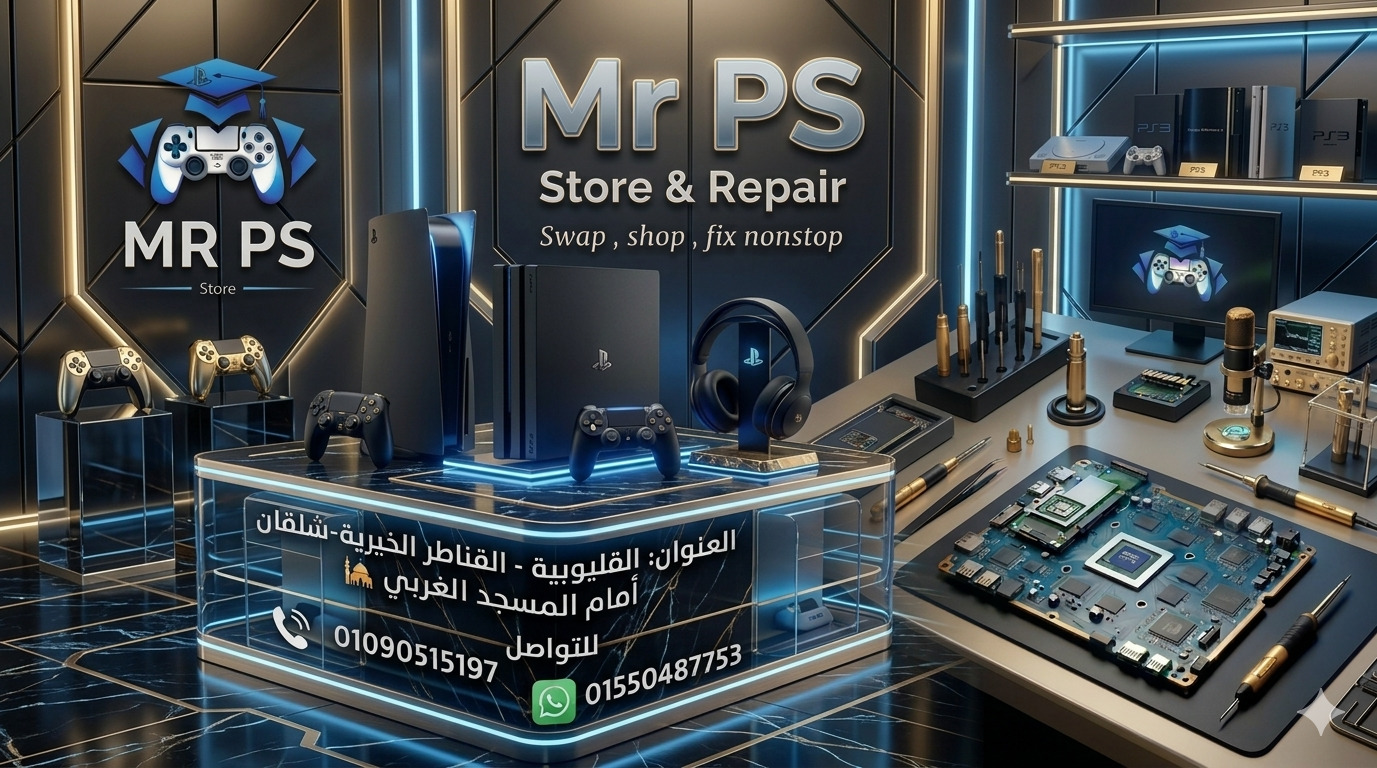
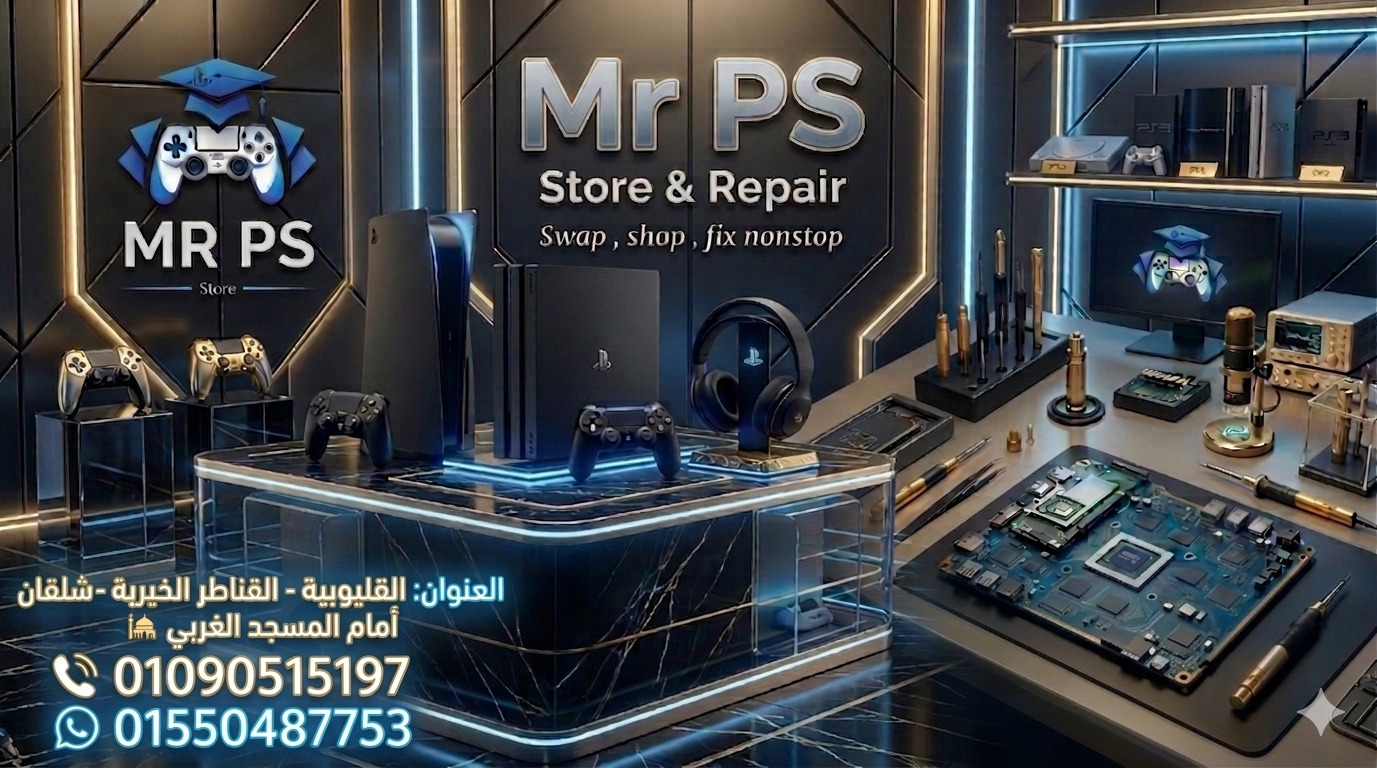
update img

diff --git a/672goldhen/index.html b/672goldhen/index.html
@@ -1,7 +1,6 @@
 <!DOCTYPE html>
 <html manifest="cache.manifest">
 <head>
-<title>PS4 6.72 FW GoldHEN Host by GamerHack</title>
 <link rel="stylesheet" href="../style.css">
 <script src="jb.js"></script>
 </head>
@@ -17,7 +16,8 @@ var leaker_obj={a:0};var leaker_arr=new Uint32Array(6);var oob_slave=new Uint8Ar
 <hr>
 <br>
 <h1 id="msgs" style="font-size: 30px;margin-top: 77px;margin-bottom: 455px;">Loading GoldHEN v2.4b18.10... Please Wait</h1>
-<h1 style="margin-top: 43px;">Special Thanks to:<a href="https://twitter.com/sleirsgoevy" style="color: #f31414;margin-left: 10px;margin-right: 10px;">@sleirsgoevy</a>Leeful<a href="https://twitter.com/_AlAzif" style="color: #f31414;margin-left: 10px;">@_AlAzif</a></h1>
+<h1 style="margin-top: 20px;">Designed by:<a href="https://www.facebook.com/MrPs.Store.eg/" style="color: #f31414;margin-left: 10px;margin-right: 10px;">@MrSherif</a> |Special Thanks to:<a href="https://www.facebook.com/abo.omar.739383?comment_id=Y29tbWVudDo0NDU3OTYxMzI0NDc5MzUyXzEzNTQ2OTYyMjk5MjQ0ODU%3D" style="color: #f31414;margin-left: 10px;margin-right: 10px;">@Abo Omar</a>and<a href="https://www.facebook.com/sherif.aref.545" style="color: #f31414;margin-left: 10px;margin-right: 10px;">Eng : Sherif Aref</a>SiSTR0 Abc</h1>
+</body>
 <script>
 if (localStorage.passcount == null) localStorage.passcount=0;
 window.passCounter.innerHTML=localStorage.passcount;
